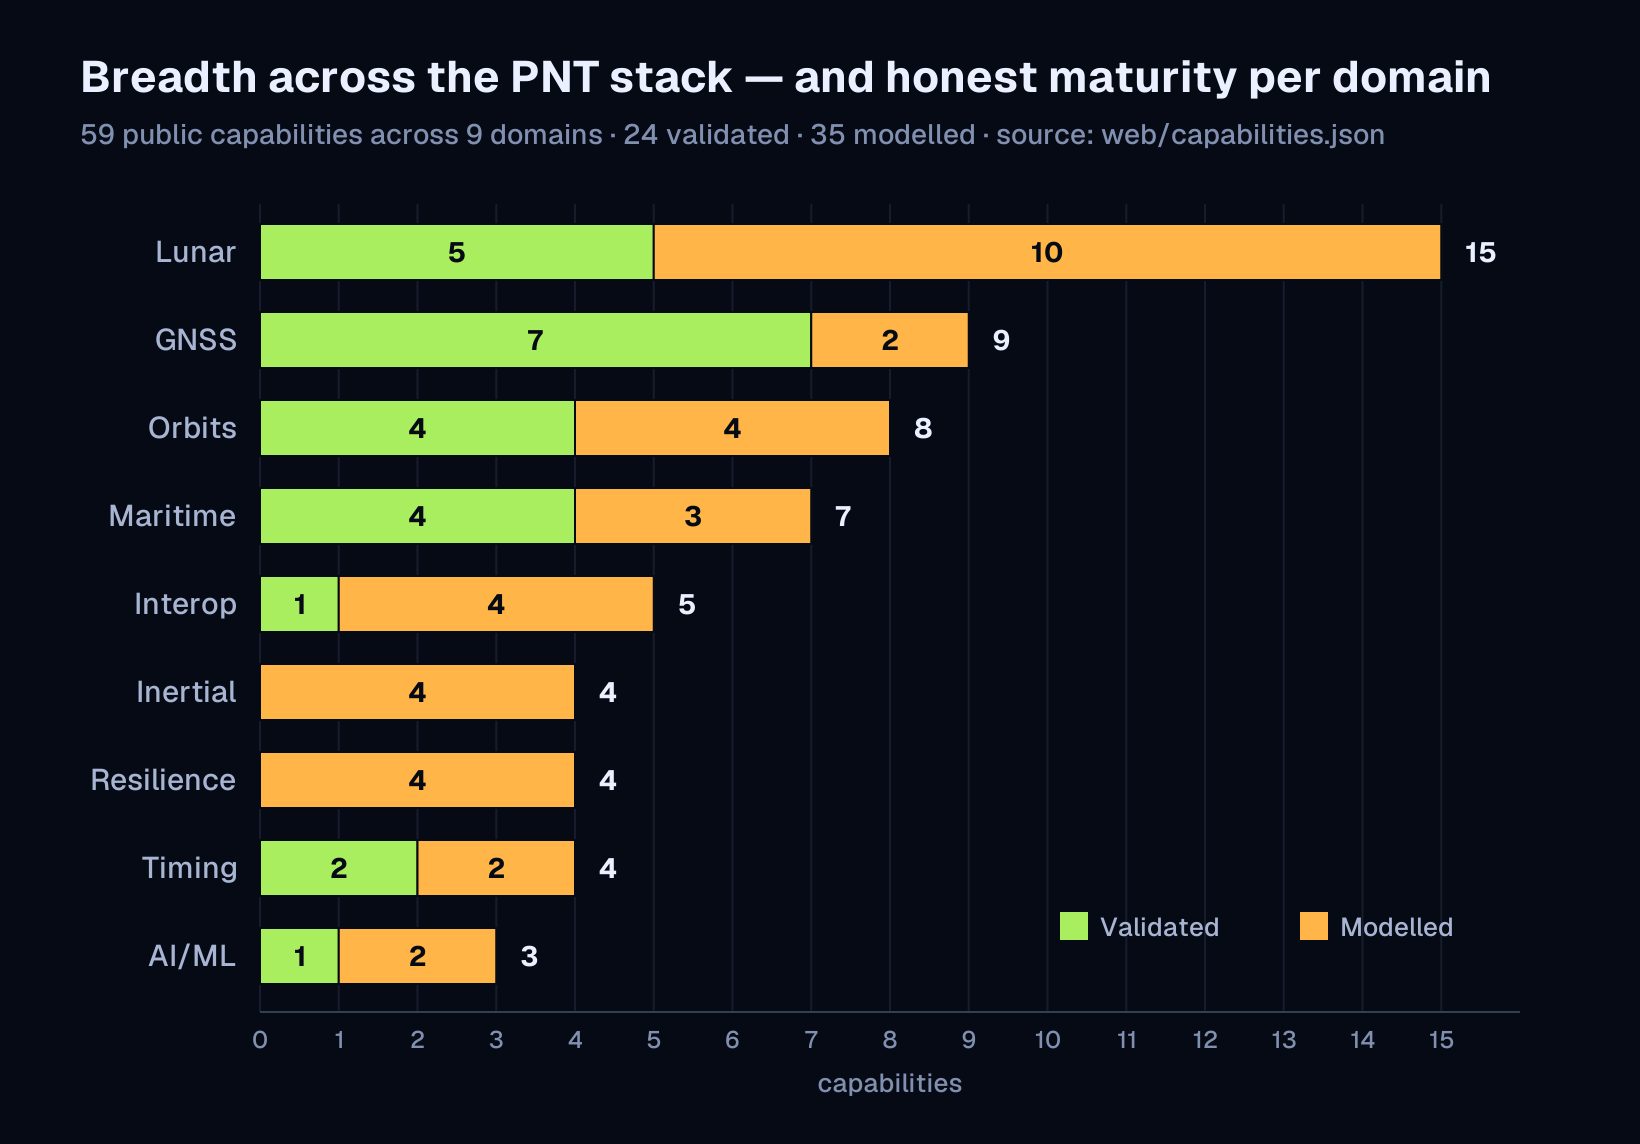
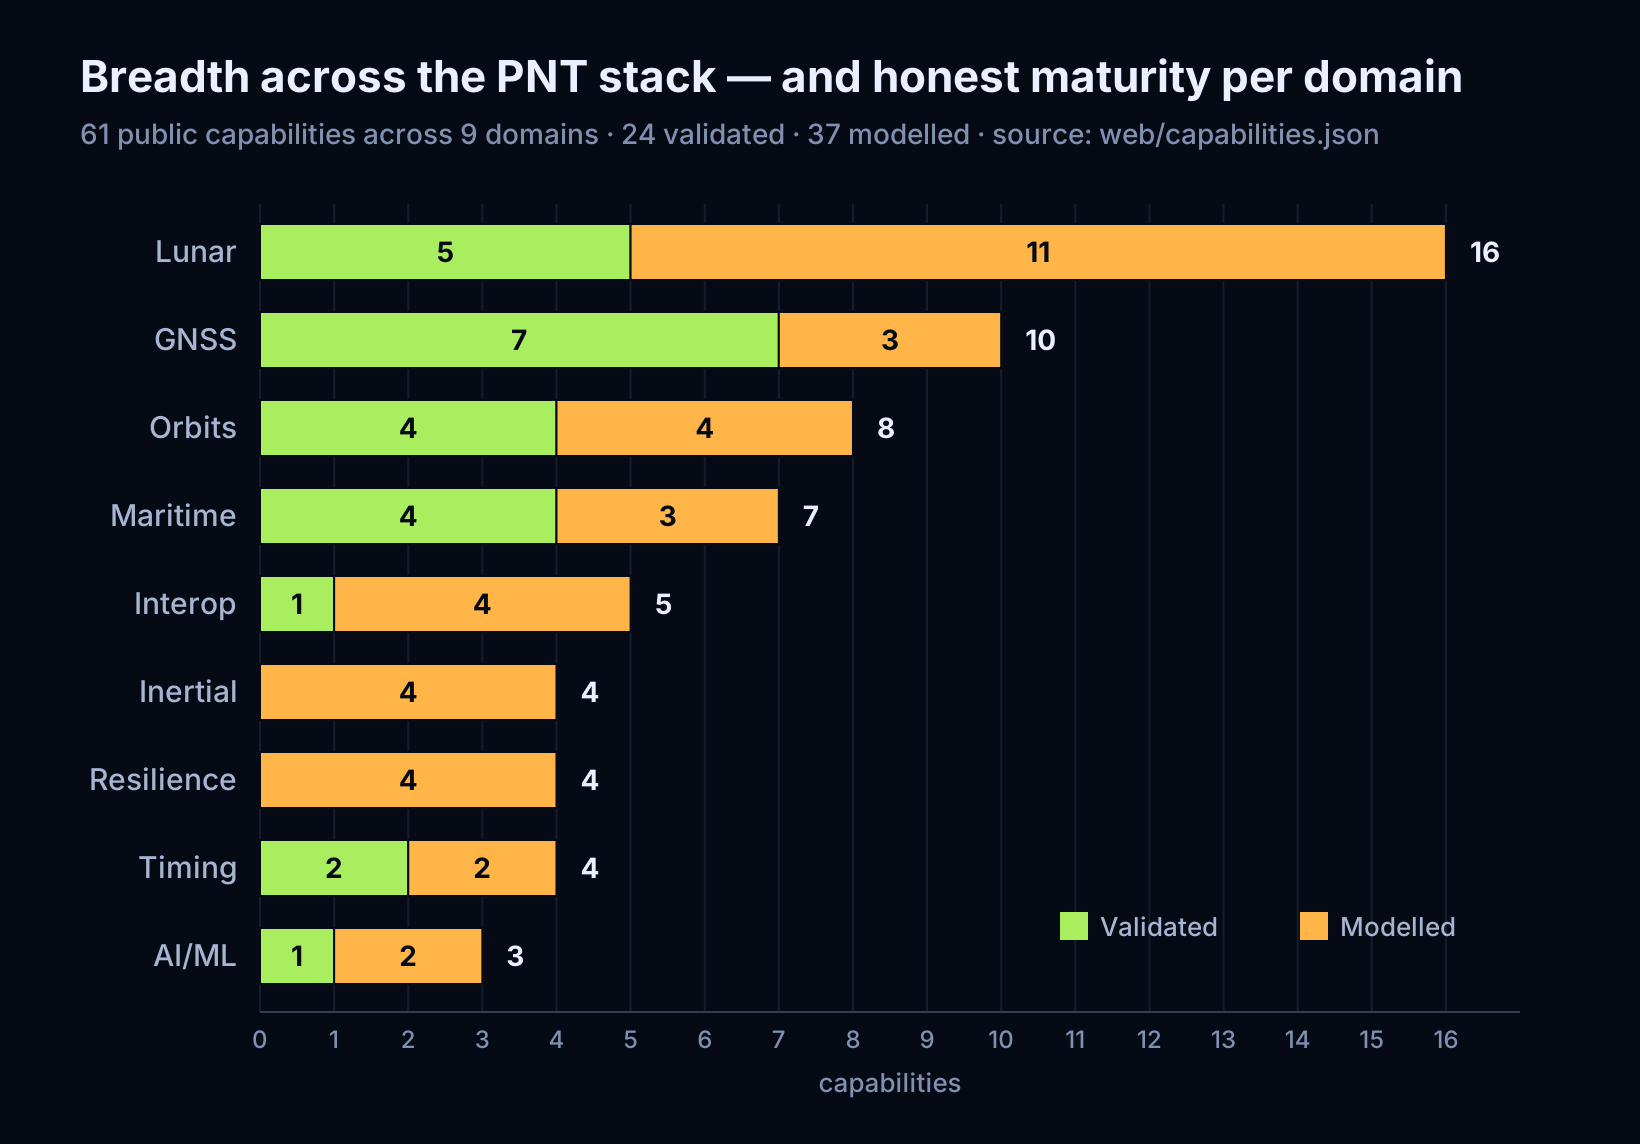
docs: regenerate domain-coverage-map (59 -> 61 capabilities drawn) and pin every figure SVG to its generator in figures_doc_sync

diff --git a/tests/figures_doc_sync.rs b/tests/figures_doc_sync.rs
@@ -238,3 +238,38 @@ fn sgp4_regime_bars_svg_shows_the_fixture_values() {
          ({tol:e}) disagree"
     );
 }
+
+/// Every committed figure SVG must be exactly what `tools/gen_validation_figures.py` produces from
+/// its source today. The substring tests above pin the counts of three figures; this one pins all
+/// of them byte for byte, so a data change (a capability card added to `web/capabilities.json`, a
+/// fixture refreshed) without regenerating the figure fails the build. `domain-coverage-map.svg`
+/// had drifted this way (59 capabilities drawn, 61 in the file) with nothing to catch it.
+/// `--check` needs only the Python standard library; `scenario-fom.svg` is checked only when its
+/// clock-holdover result file exists, as the script states.
+#[test]
+fn every_committed_figure_svg_regenerates_identically() {
+    let out = std::process::Command::new("python3")
+        .args(["tools/gen_validation_figures.py", "--check"])
+        .current_dir(env!("CARGO_MANIFEST_DIR"))
+        .output()
+        .expect("python3 is required to run tools/gen_validation_figures.py --check");
+    assert!(
+        out.status.success(),
+        "a committed figure differs from its generator's output; run \
+         `python3 tools/gen_validation_figures.py` and commit the SVG and PNG:\n{}{}",
+        String::from_utf8_lossy(&out.stdout),
+        String::from_utf8_lossy(&out.stderr)
+    );
+    let text = String::from_utf8_lossy(&out.stdout);
+    for name in [
+        "validation-breakdown.svg",
+        "oracle-kind-stacked.svg",
+        "domain-coverage-map.svg",
+        "sgp4-regime-bars.svg",
+    ] {
+        assert!(
+            text.contains(&format!("{name} is in sync.")),
+            "{name} was not checked: {text}"
+        );
+    }
+}
